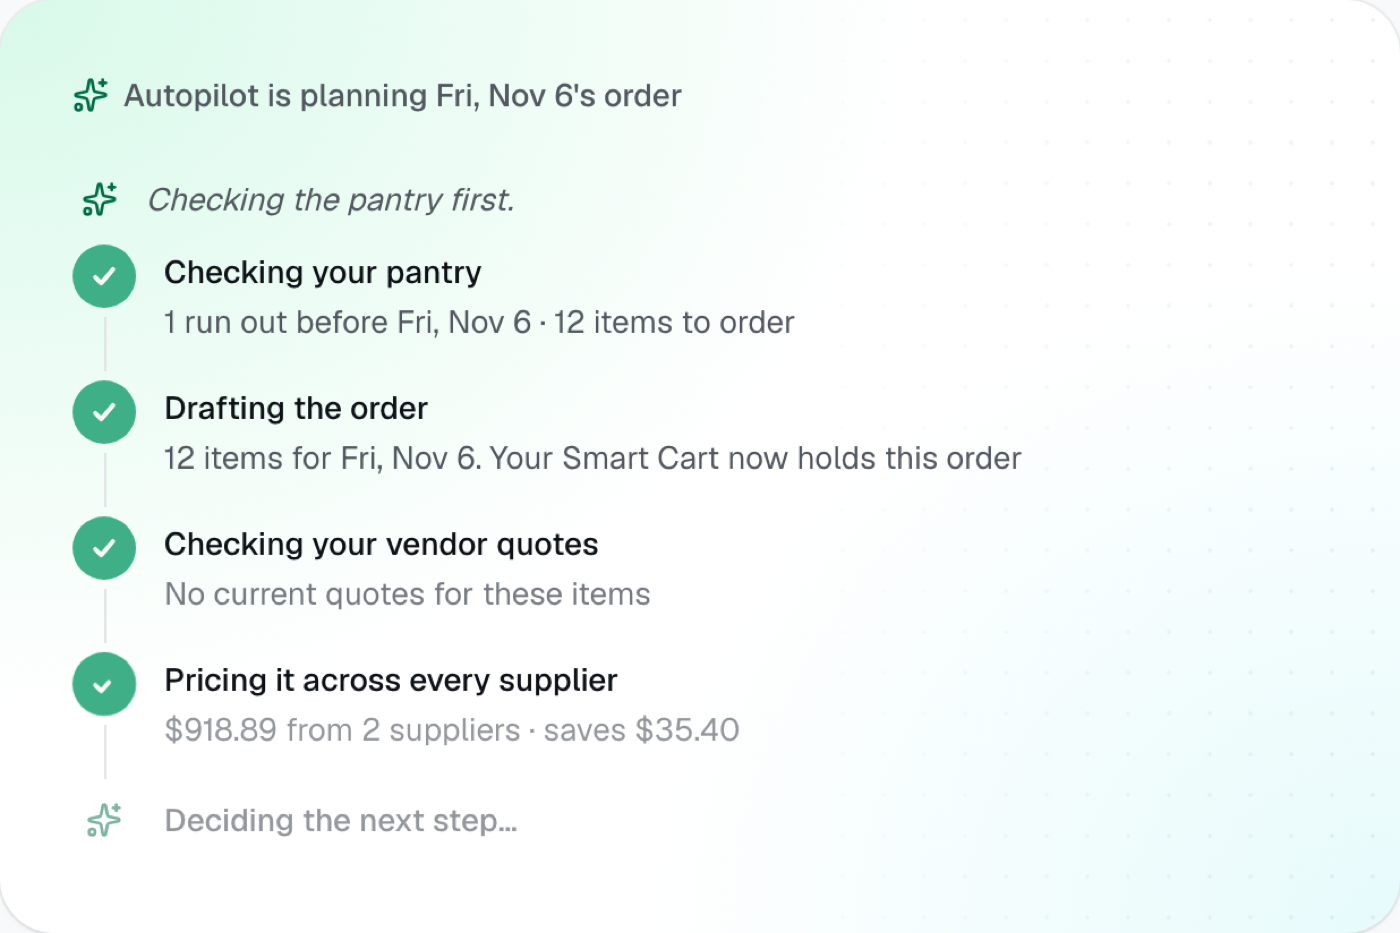
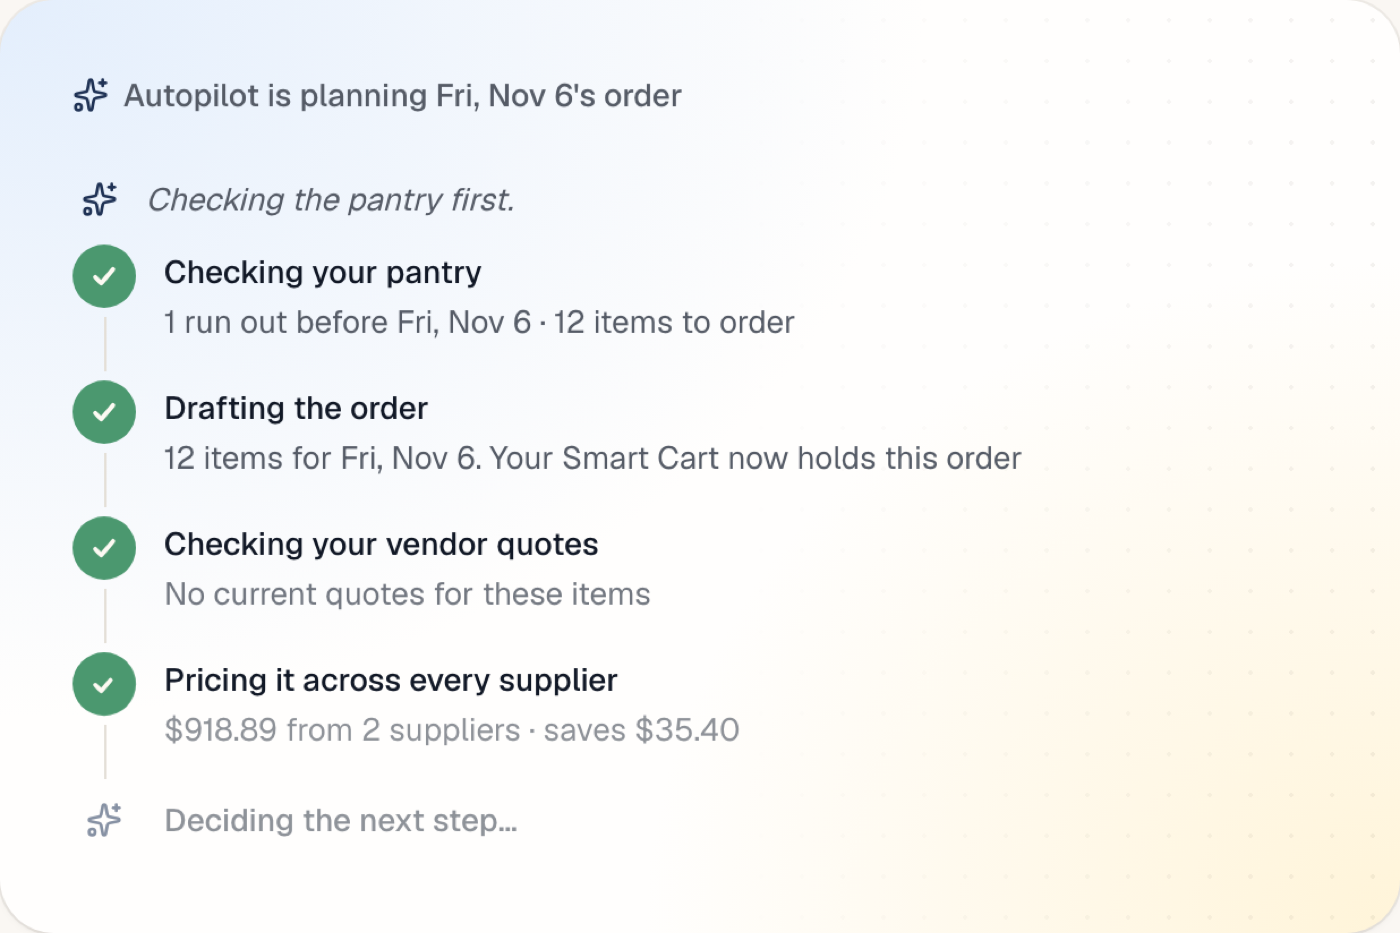
fix(web): Autopilot plan card says "N items for <date>"; screenshots in the new brand

diff --git a/apps/web/src/components/autopilot/autopilot.tsx b/apps/web/src/components/autopilot/autopilot.tsx
@@ -175,7 +175,7 @@ function PlanCard({
           <div className="pb-1.5 text-sm">
             <p className="text-muted-foreground">
               {plan.itemCount} item{plan.itemCount === 1 ? "" : "s"}
-              {plan.deliveryDate ? ` · delivered ${formatDate(plan.deliveryDate)}` : ""}
+              {plan.deliveryDate ? ` for ${formatDate(plan.deliveryDate)}` : ""}
             </p>
             {plan.savingsCents !== null && plan.savingsCents > 0 ? (
               <p className="bg-success-soft text-success animate-pop mt-1 inline-flex rounded-full px-2.5 py-0.5 text-xs font-semibold">
